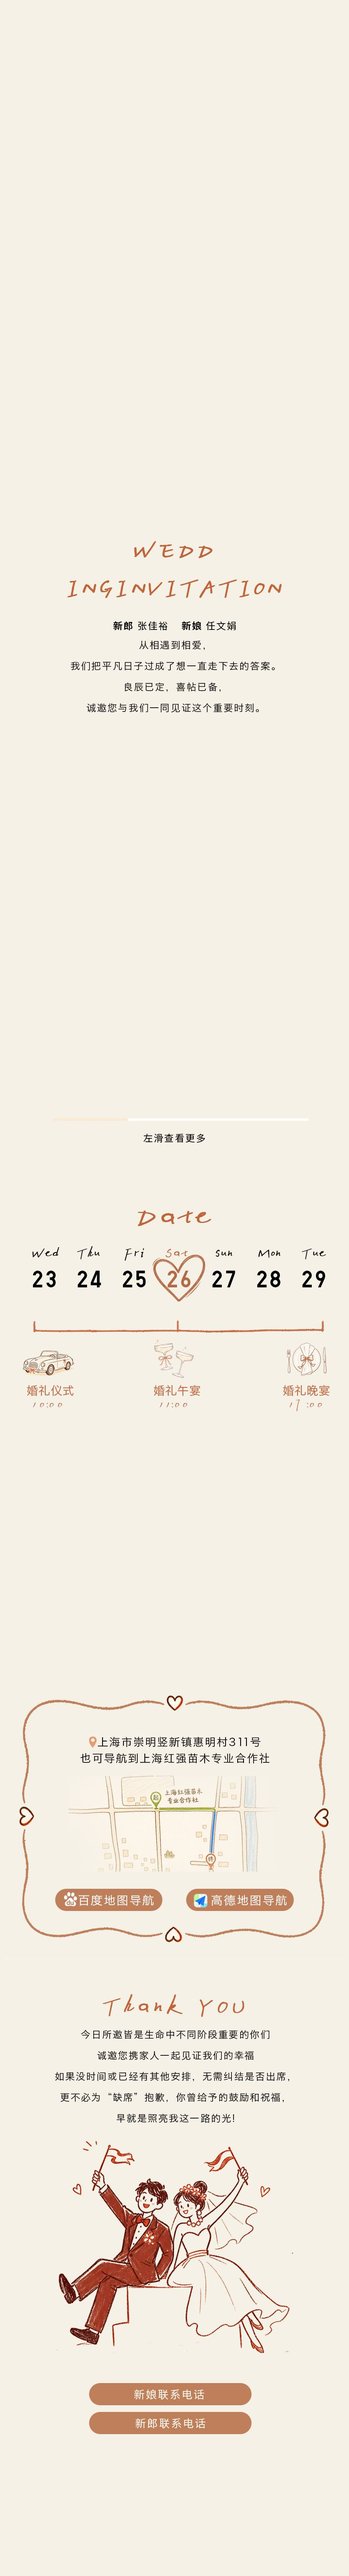
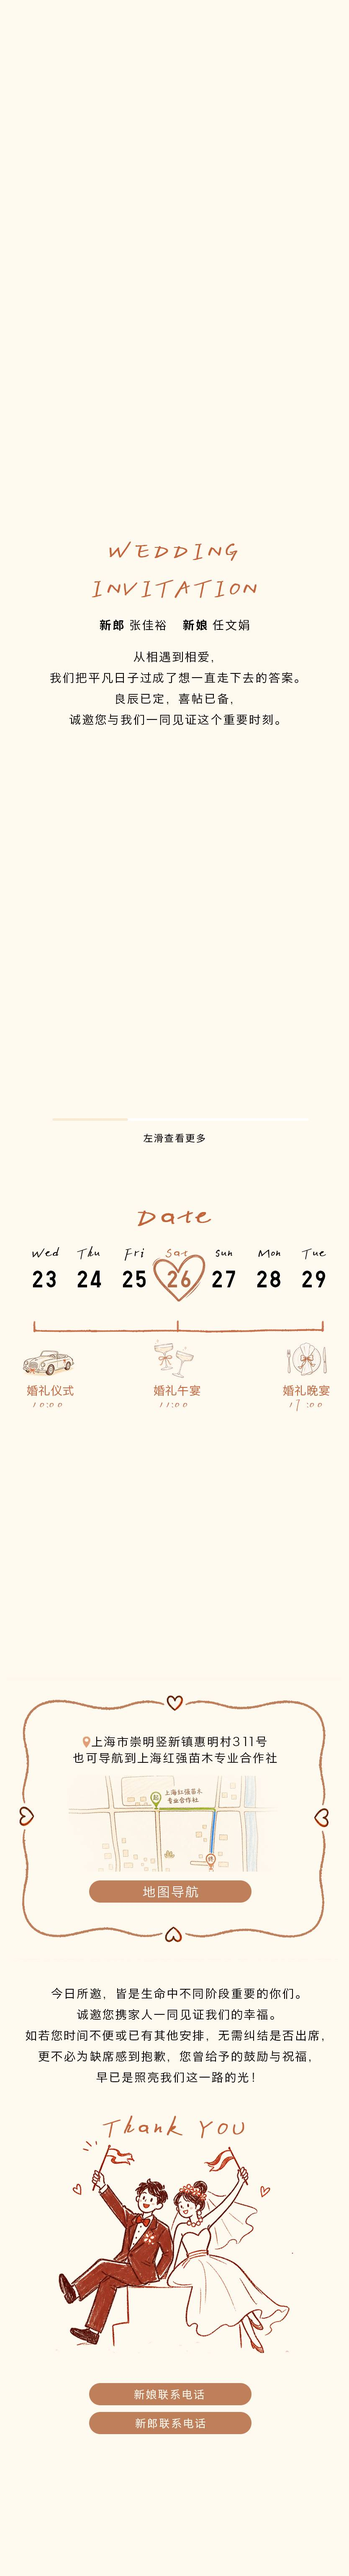
Update invitation background image

Changed region(s): [[0.1559, 0.7175, 0.8417, 0.8422], [0.2182, 0.1872, 0.7794, 0.2807], [0.2494, 0.6551, 0.7482, 0.6863]]

diff --git a/index.html b/index.html
@@ -23,8 +23,8 @@
     <meta name="twitter:image" content="https://610166903.github.io/hunli/share-cover.jpg?v=20260814-share-card-v2">
     <link rel="image_src" href="https://610166903.github.io/hunli/share-cover.jpg?v=20260814-share-card-v2">
     <link rel="preload" href="layer-6-mobile.mp4" as="video" type="video/mp4">
-    <link rel="preload" href="invitation-8-14-lite.jpg" as="image">
-    <link rel="stylesheet" href="styles.css?v=20260817-perf-v2">
+    <link rel="preload" href="invitation-8-14-lite.jpg?v=20260817-bg-v1" as="image">
+    <link rel="stylesheet" href="styles.css?v=20260817-bg-v1">
   </head>
   <body>
     <button class="music-toggle" type="button" aria-label="播放音乐" aria-pressed="false">
@@ -33,7 +33,7 @@
     <audio id="bgMusic" src="music-trim3.m4a" loop preload="metadata" autoplay></audio>
     <main class="page">
       <div class="image-wrap">
-        <img class="invitation" src="invitation-8-14-lite.jpg" alt="婚礼邀请函" fetchpriority="high">
+        <img class="invitation" src="invitation-8-14-lite.jpg?v=20260817-bg-v1" alt="婚礼邀请函" fetchpriority="high">
         <video
           class="intro-video"
           src="layer-6-mobile.mp4"
@@ -104,6 +104,6 @@
       <img class="lightbox-image" src="gallery-1-optimized.jpg" alt="相册照片预览" loading="lazy" decoding="async">
       <button class="lightbox-nav lightbox-next" type="button" aria-label="下一张照片">›</button>
     </div>
-    <script src="app.js?v=20260817-perf-v2"></script>
+    <script src="app.js?v=20260817-bg-v1"></script>
   </body>
 </html>

diff --git a/share.html b/share.html
@@ -23,8 +23,8 @@
     <meta name="twitter:image" content="https://610166903.github.io/hunli/share-cover.jpg?v=20260814-share-card-v2">
     <link rel="image_src" href="https://610166903.github.io/hunli/share-cover.jpg?v=20260814-share-card-v2">
     <link rel="preload" href="layer-6-mobile.mp4" as="video" type="video/mp4">
-    <link rel="preload" href="invitation-8-14-lite.jpg" as="image">
-    <link rel="stylesheet" href="styles.css?v=20260817-perf-v2">
+    <link rel="preload" href="invitation-8-14-lite.jpg?v=20260817-bg-v1" as="image">
+    <link rel="stylesheet" href="styles.css?v=20260817-bg-v1">
   </head>
   <body>
     <button class="music-toggle" type="button" aria-label="播放音乐" aria-pressed="false">
@@ -33,7 +33,7 @@
     <audio id="bgMusic" src="music-trim3.m4a" loop preload="metadata" autoplay></audio>
     <main class="page">
       <div class="image-wrap">
-        <img class="invitation" src="invitation-8-14-lite.jpg" alt="婚礼邀请函" fetchpriority="high">
+        <img class="invitation" src="invitation-8-14-lite.jpg?v=20260817-bg-v1" alt="婚礼邀请函" fetchpriority="high">
         <video
           class="intro-video"
           src="layer-6-mobile.mp4"
@@ -104,6 +104,6 @@
       <img class="lightbox-image" src="gallery-1-optimized.jpg" alt="相册照片预览" loading="lazy" decoding="async">
       <button class="lightbox-nav lightbox-next" type="button" aria-label="下一张照片">›</button>
     </div>
-    <script src="app.js?v=20260817-perf-v2"></script>
+    <script src="app.js?v=20260817-bg-v1"></script>
   </body>
 </html>
